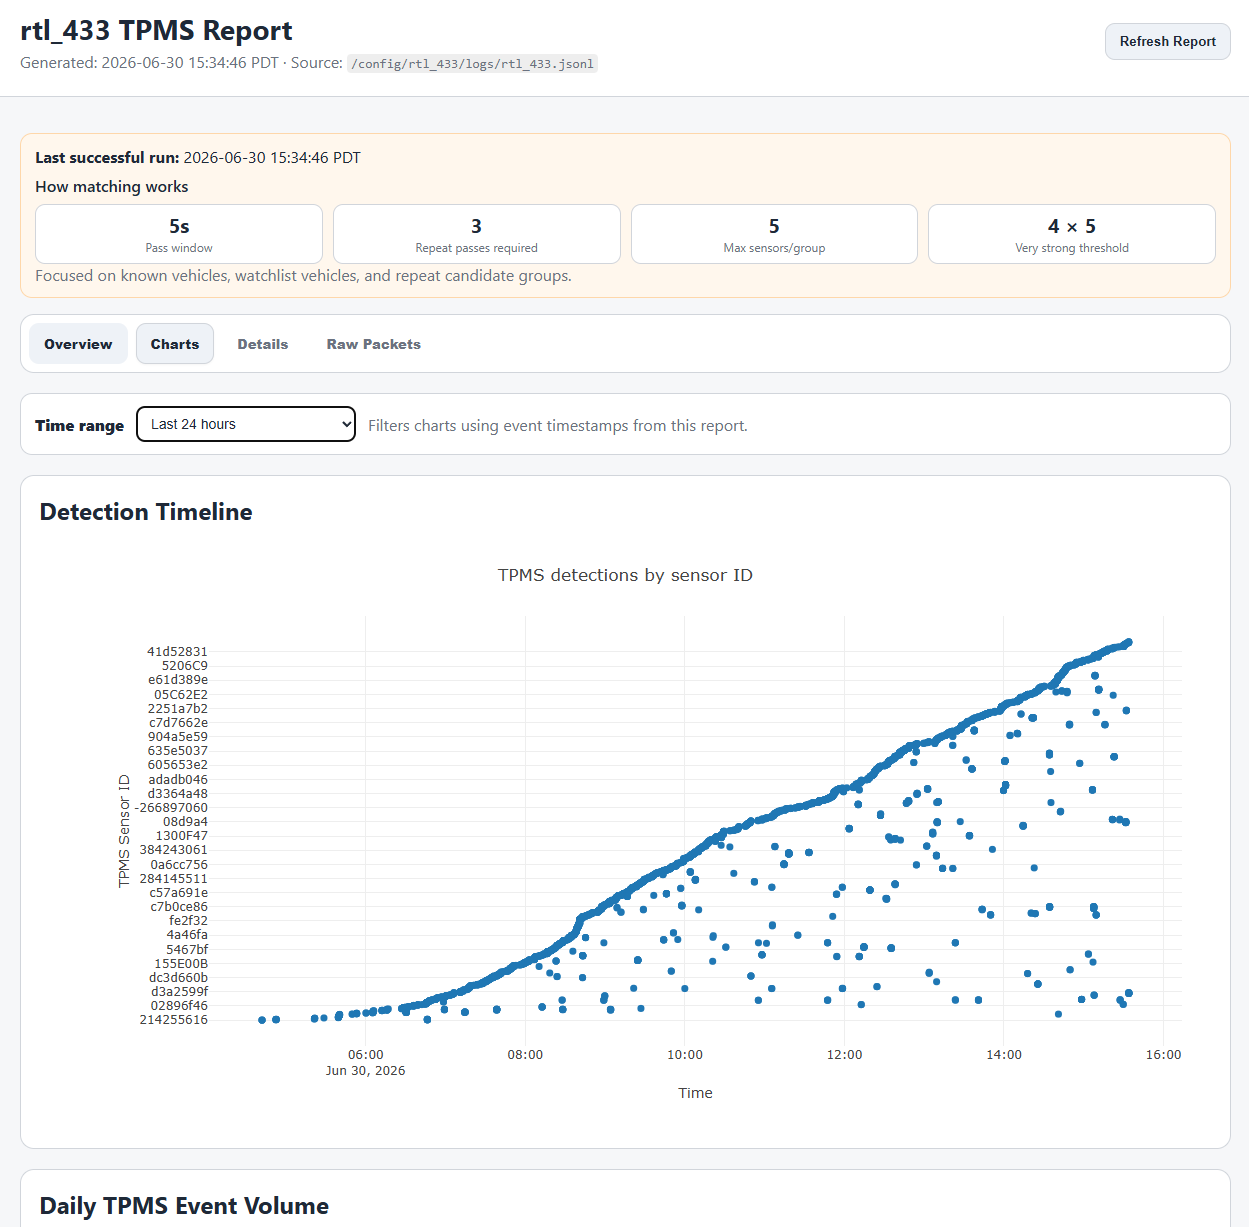
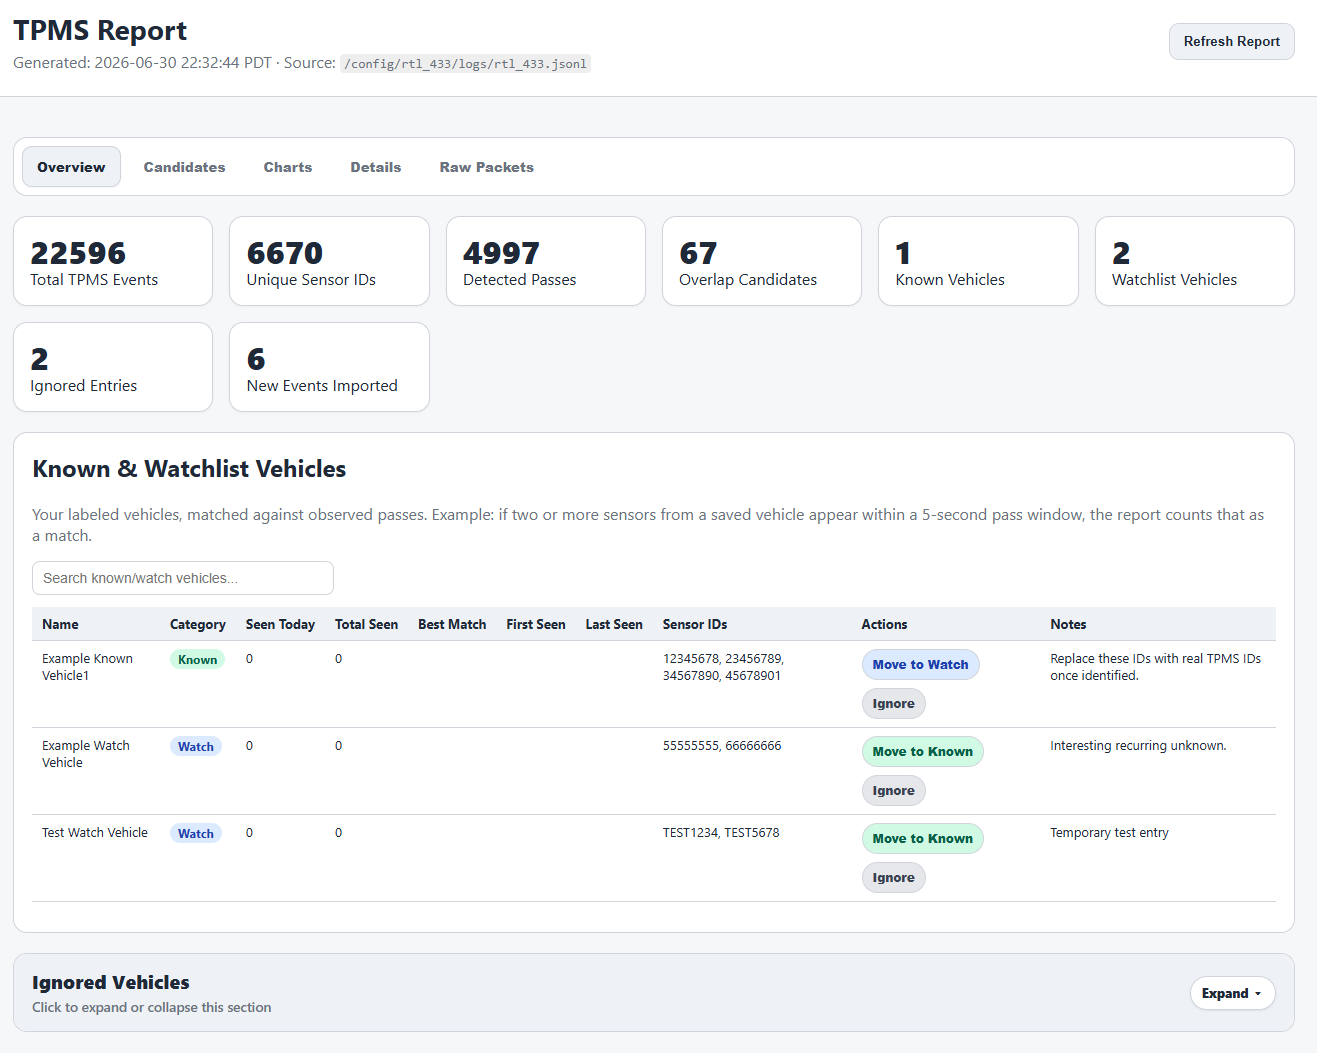
Remove unused TPMS timeline fields. update screenshot

diff --git a/tpms_analyzer/report.py b/tpms_analyzer/report.py
@@ -163,14 +163,11 @@ def write_report(context):
             "time": e["event_time"].isoformat() if e["event_time"] else e["event_time_text"],
             "sensor_id": e["sensor_id"],
             "model": e["model"],
-            "pressure": e["pressure_psi"] if e["pressure_psi"] is not None else e["pressure_kpa"],
-            "pressure_unit": "PSI" if e["pressure_psi"] is not None else ("kPa" if e["pressure_kpa"] is not None else ""),
             "temperature_c": e["temperature_c"],
             "pressure_psi": e["pressure_psi"],
             "pressure_kpa": e["pressure_kpa"],
             "rssi": e["rssi"],
             "snr": e["snr"],
-            "noise": e["noise"],
             "battery_ok": e["battery_ok"],
             "maybe_battery": e.get("maybe_battery"),
             "protocol": e["protocol"],